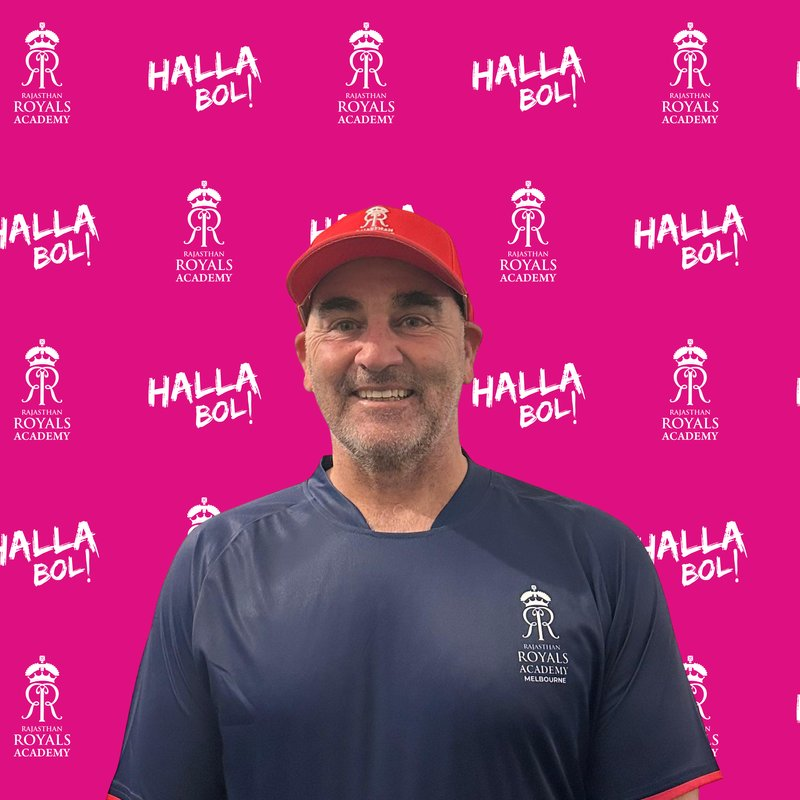
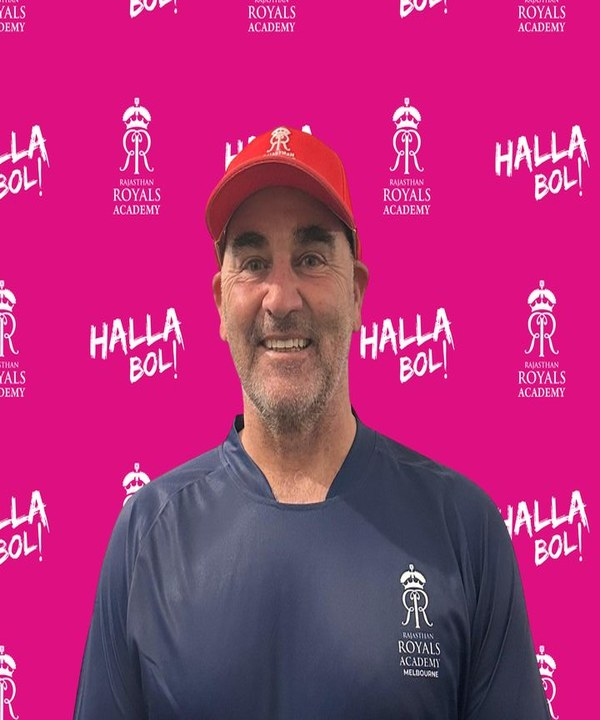
[Junior Royals T3] Normalise all coach photos to consistent head size and portrait crop
- All three photos cropped to 600x720px with heads at matching scale
- Card height fixed at 280px for all three — no more portrait/landscape logic
- Alex Lewis, Alex Thornhill, Andrew Walton all visually consistent

diff --git a/src/components/junior-royals-t3/JRT3Coaches.jsx b/src/components/junior-royals-t3/JRT3Coaches.jsx
@@ -50,7 +50,7 @@ const JRT3Coaches = () => (
                         viewport={{ once: true }} transition={{ duration: 0.5, delay: i * 0.15 }}
                         className="bg-white rounded-2xl overflow-hidden shadow-sm border border-slate-100">
                         <div className="overflow-hidden bg-gradient-to-br from-rr-navy via-rr-blue to-rr-pink"
-                            style={{ height: coach.portrait ? '320px' : '224px' }}>
+                            style={{ height: '280px' }}>
                             {coach.img ? (
                                 <img src={coach.img} alt={coach.name}
                                     className="w-full h-full object-cover"
